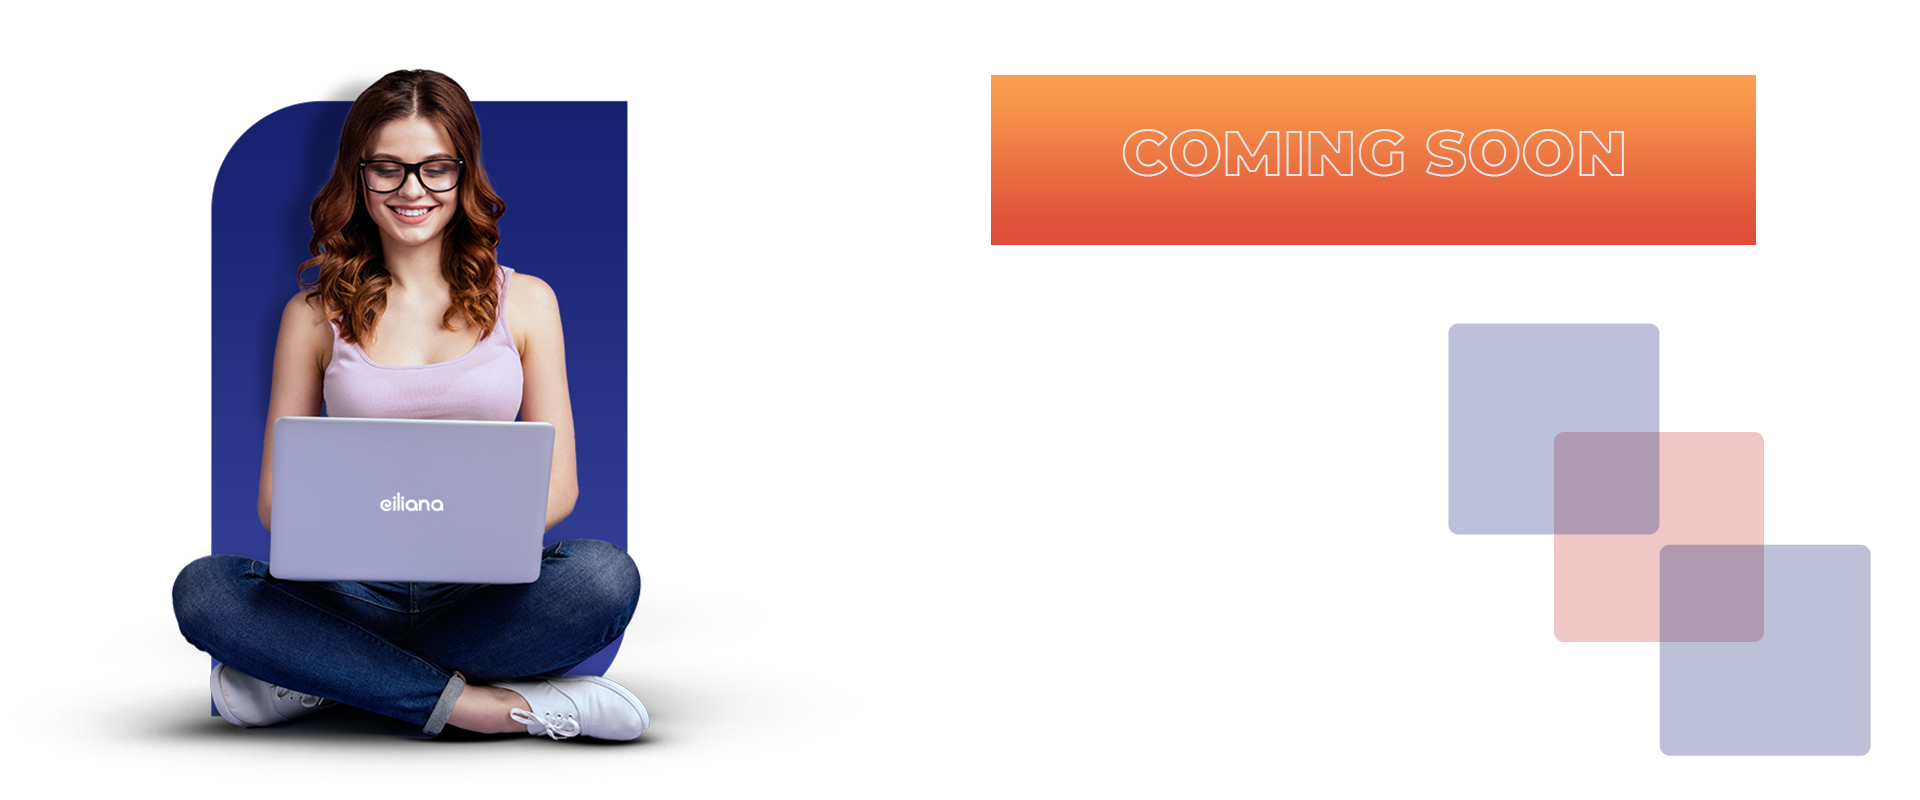
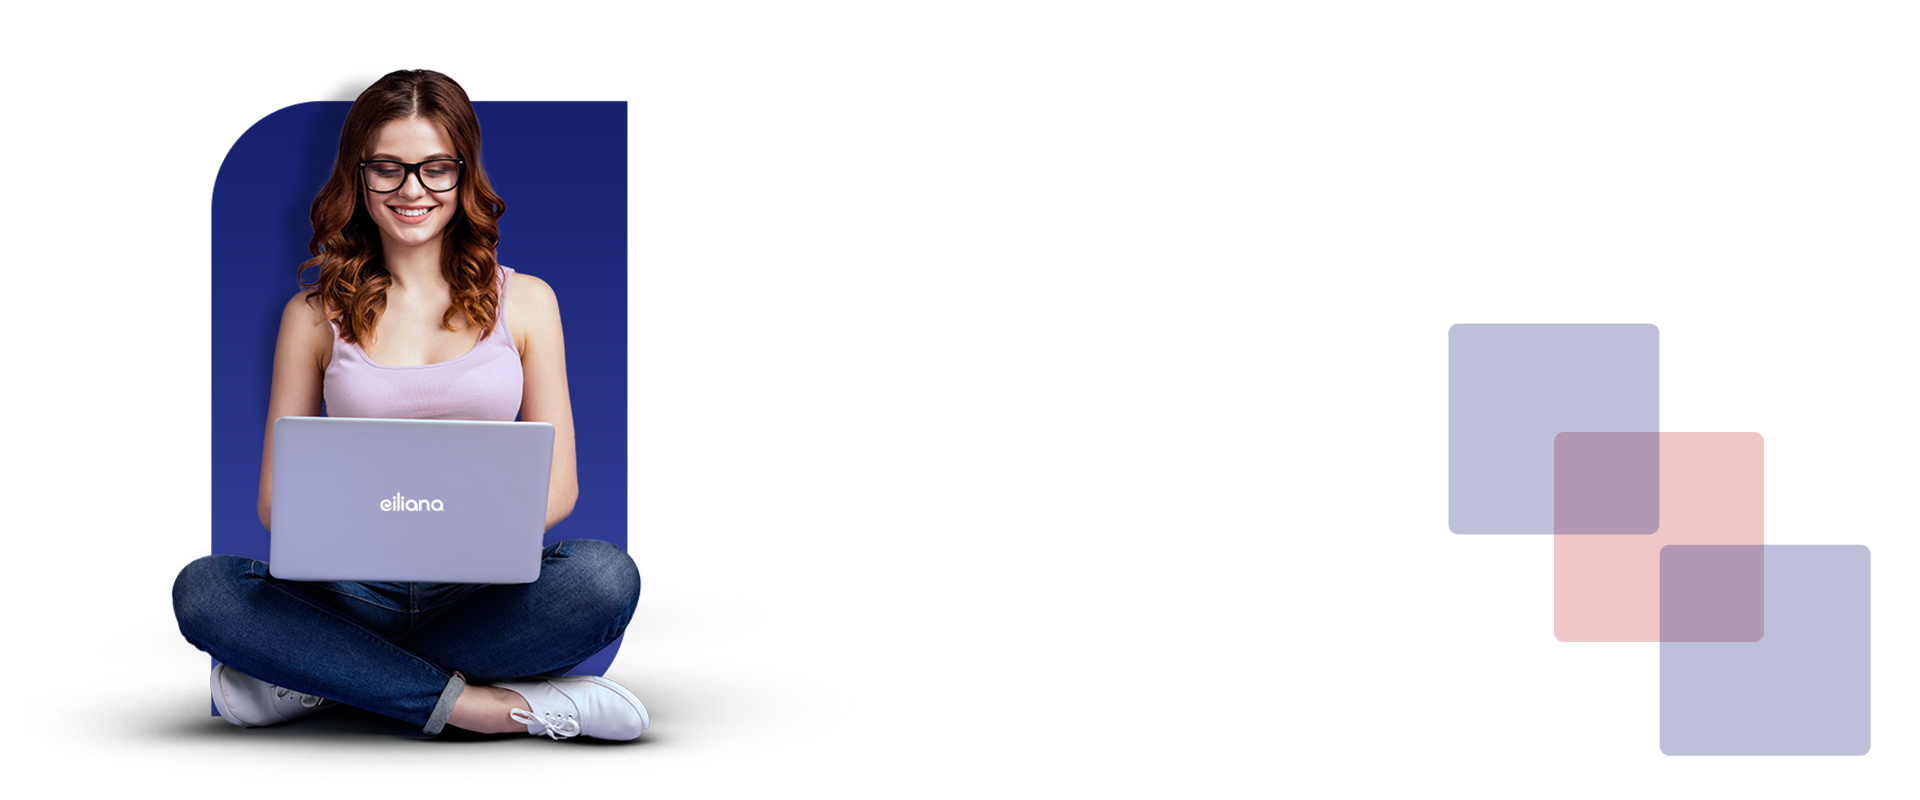
version-1.12.15

Changed region(s): [[0.5, 0.0938, 0.9375, 0.3125]]

diff --git a/public/assets/css/style.css b/public/assets/css/style.css
@@ -987,3 +987,16 @@ button.btn.btn-danger.float-right.mt-3.rounded-0 {
 .account-register .custom-control.custom-radio {
     top: 10px;
 }
+.advance-search .card-header {
+    text-align: left;
+    margin: 0.5rem 0.8rem;
+    padding: .5rem .5rem;
+    font-size: 19px;
+}
+.advance-search .card {
+    border: none;
+}
+.advance-search {
+    box-shadow: 0 0 2px 2px #e4ecf7;
+    border: none;
+}

diff --git a/resources/views/search/projects.blade.php b/resources/views/search/projects.blade.php
@@ -1,0 +1,124 @@
+@extends('search/layout')
+
+@section('search_content')
+<div class="advance-search singup-body login-body">
+    <form action="{{ url('/advance-search/updateProfile') }}" method="POST">
+        @csrf
+        <div class="card">
+            <div class="card-header">
+                <div class="basic-info">
+                    <label>Type of Project</label>
+                    <div class="form-check form-check-inline ml-3">
+                        <div class="custom-control custom-radio">
+                            <input type="radio" id="support" class="custom-control-input" name="top" value="1">
+                            <label class="custom-control-label" for="support">Support</label>
+                        </div>
+                    </div>
+                    <div class="form-check form-check-inline">
+                        <div class="custom-control custom-radio">
+                            <input type="radio" id="development" class="custom-control-input" name="top" value="2">
+                            <label class="custom-control-label" for="development">Development</label>
+                        </div>
+                    </div>
+                    <div class="form-check form-check-inline">
+                        <div class="custom-control custom-radio">
+                            <input type="radio" id="both" class="custom-control-input" name="top" value="3">
+                            <label class="custom-control-label" for="both">Both</label>
+                        </div>
+                    </div>
+                </div>
+            </div>
+            <div class="card-body p-4">
+                <div class="form-group">
+                    <label>Looking to develope</label>
+                    <input type="text" name="username" class="form-control" value="" />
+                </div>
+                <div class="form-group basic-info">
+                    <label>Model Of Engagement</label>
+                    <br>
+                    <div class="form-check form-check-inline">
+                        <input class="form-check-input" type="checkbox" id="inlineCheckbox1" name="model_engagement" value="1">
+                        <label class="form-check-label" for="inlineCheckbox1">Hourly</label>
+                    </div>
+                    <div class="form-check form-check-inline">
+                        <input class="form-check-input" type="checkbox" id="inlineCheckbox2" name="model_engagement" value="2">
+                        <label class="form-check-label" for="inlineCheckbox2">Retainership</label>
+                    </div>
+                    <div class="form-check form-check-inline">
+                        <input class="form-check-input" type="checkbox" id="inlineCheckbox3" name="model_engagement" value="3">
+                        <label class="form-check-label" for="inlineCheckbox3">Project-based</label>
+                    </div>
+                </div>
+                <div class="form-group">
+                    <label>Technology Preference</label>
+                    <select name="technologty_pre" class="form-control" required>
+                        <option value=""></option>
+                        <option value="1">1</option>
+                        <option value="2">2</option>
+                    </select>
+                </div>
+                <div class="form-row">
+                    <div class="form-group col-8">
+                        <label>Total Experience</label>
+                        <div class="form-row">
+                            <div class="col">
+                                <select class="form-control" name="experience_year">
+                                    @for ($i = 1; $i < 21; $i++)
+                                    <option value="{{ $i }}">{{ $i }} Years</option>
+                                    @endfor
+                                </select>
+                            </div>
+                            <div class="col">
+                                <select class="form-control" name="experience_month">
+                                    @for ($i = 1; $i < 13; $i++)
+                                    <option value="{{ $i }}">{{ $i }} Months</option>
+                                    @endfor
+                                </select>
+                            </div>
+                        </div>
+                    </div>
+                </div>
+                <div class="form-group">
+                    <label>Industry that Product was designed for</label>
+                    <select name="industry" class="form-control">
+                        <option value=""></option>
+                        <option value="1">1</option>
+                        <option value="2">2</option>
+                        <option value="3">3</option>
+                    </select>
+                </div>
+                <div class="form-group basic-info mb-3">
+                    <label>Sort By</label>
+                    <div class="form-check form-check-inline ml-3">
+                        <div class="custom-control custom-radio">
+                            <input type="radio" id="Relevance" name="sortby" class="custom-control-input" value="0">
+                            <label class="custom-control-label" for="Relevance">Relevance</label>
+                        </div>
+                    </div>
+                    <div class="form-check form-check-inline">
+                        <div class="custom-control custom-radio">
+                            <input type="radio" id="Resume" name="sortby" class="custom-control-input" value="1">
+                            <label class="custom-control-label" for="Resume">Resume Fresher</label>
+                        </div>
+                    </div>
+                    <div class="form-check form-check-inline">
+                        <div class="custom-control custom-radio">
+                            <input type="radio" id="Last" name="sortby" class="custom-control-input" value="1">
+                            <label class="custom-control-label" for="Last">Last Active Date</label>
+                        </div>
+                    </div>
+                </div>
+                <div class="form-group text-right mt-5">
+                    <div class="btn-group" role="group">
+                        <button class="btn btn-primary">
+                            <span class="spinner-border spinner-border-sm mr-1 d-none"></span>
+                            Search and find the relevant projects
+                        </button>
+                        <!-- <button class="btn btn-outline-primary" type="reset">Discard</button> -->
+                    </div>
+                </div>
+            </div>
+        </div>
+    </form>
+</div>
+@stop

diff --git a/resources/views/search/layout.blade.php b/resources/views/search/layout.blade.php
@@ -1,0 +1,119 @@
+@extends('layouts/default')
+
+{{-- Page title --}}
+@section('title')
+Advance Search
+@parent
+@stop
+
+{{-- page level styles --}}
+@section('header_styles')
+<!--page level css starts-->
+<link href="{{ asset('vendors/jasny-bootstrap/css/jasny-bootstrap.css') }}" rel="stylesheet" />
+<link href="{{ asset('vendors/iCheck/css/all.css') }}" rel="stylesheet" type="text/css" />
+<link href="{{ asset('vendors/sweetalert/css/sweetalert2.css') }}" rel="stylesheet" type="text/css" />
+<link rel="stylesheet" type="text/css" href="{{ asset('vendors/select2/css/select2.min.css') }}">
+<link rel="stylesheet" type="text/css" href="{{ asset('vendors/select2/css/select2-bootstrap.css') }}">
+<link rel="stylesheet" type="text/css" href="{{ asset('vendors/datetimepicker/css/bootstrap-datetimepicker.min.css') }}">
+<!--end of page level css-->
+@stop
+
+{{-- content --}}
+@section('content')
+<div class="profile-setting">
+	<div class="bg-red">
+	  <div class="px-5 py-2">
+	    <div class="align-items-center">
+	        <span class="border-title"><i class="fa fa-bars"></i></span>
+	        <span class="h5 text-white ml-2">Advance Search</span>
+	         <!-- <span class="h4 text-white float-right font-weight-light">75% <div class="loader"></div></span> -->
+	    </div>
+	  </div>
+	</div>
+	<div class="container space-1 space-top-lg-0 mt-lg-n10">
+	    <div class="row">
+	        <div class="col-lg-8">
+	        	<div id="notific">
+		            @include('notifications')
+		        </div>
+	            @yield('search_content')
+	        </div>
+	        <div class="col-lg-4">
+	            <div id="sidebarNav" class="navbar-collapse navbar-vertical " style="">
+				    <div class="position-relative max-w-50rem mx-auto mobile-profile">
+				        <!-- Device Mockup -->
+				        <div class="device device-iphone-x w-100 mx-auto">
+				            <img class="device-iphone-x-frame" src="/assets/img/profile/mobile-bg.png" alt="Image Description">
+				            <div class="device-iphone-x-screen">
+				                <div class="top-mobile bg-blue bg-img-hero" style="background-image: url(/assets/img/profile/mobile-profile.png);">
+				                    <div class="row">
+				                        <div class="col-4"></div>
+				                        <div class="col-8">
+				                            <div class="img-upload">
+				                                <img class="image-preview avatar-img" src="/assets/img/profile/m-photo-icon.png" class="avatar" alt="Avatar">
+				                                <span>Upload Photo</span>
+				                            </div>
+				                            <button class="btn">{{ Sentinel::getUser()->full_name }}</button>
+				                            <p class="card-text font-size-1">
+				                                @isset(Sentinel::getUser()->city)
+				                                {{ Sentinel::getUser()->city }}, 
+				                                @endisset
+				                                {{ Session::get('users')['country_name'] }}
+				                                <br>
+				                                {{ \Carbon\Carbon::parse(Sentinel::getUser()->created_at)->format('M d, Y')}}
+				                            </p>
+				                        
+				                        </div>
+				                    </div>
+				                </div> 
+				                <div class="bottom-menu">
+				                    <div class="list-group">
+				                        <a class="list-group-item list-group-item-action bg-white-b {!! (Request::is('profile') ? 'active' : '' ) !!}" href="/profile">
+				                            <!-- <i class="fas fa-info-circle"></i> -->
+				                            <img class="img-fluid" src="/assets/img/profile/icon-1.png" alt="Avatar">
+				                            <span>Primary Information</span>
+				                        </a>
+				                        <a class="list-group-item list-group-item-action bg-blue {!! (Request::is('profile/education') ? 'active' : '' ) !!}" href="/profile/education">
+				                            <img class="img-fluid" src="/assets/img/profile/icon-2.png" alt="Avatar">
+				                            <span> Education</span>
+				                        </a>
+				                        <a class="list-group-item list-group-item-action bg-white-b {!! (Request::is('profile/certification') ? 'active' : '' ) !!}" href="/profile/certification">
+				                            <img class="img-fluid" src="/assets/img/profile/icon-3.png" alt="Avatar">
+				                            <span> Certification</span>
+				                        </a>
+				                        <a class="list-group-item list-group-item-action bg-blue {!! (Request::is('profile/professional-experience') ? 'active' : '' ) !!}" href="/profile/professional-experience">
+				                            <img class="img-fluid" src="/assets/img/profile/icon-4.png" alt="Avatar">
+				                            <span> Professional Experience</span>
+				                        </a>
+				                        <a class="list-group-item list-group-item-action bg-white-b" href="/profile">
+				                            <img class="img-fluid" src="/assets/img/profile/icon-5.png" alt="Avatar">
+				                            <span> Company Settings</span>
+				                        </a>
+				                    </div>
+				                </div>
+				            </div>
+				        </div>
+				        <!-- End Device Mockup -->
+				    </div>
+				</div>
+	        </div>
+	    </div>
+	    <!-- End Row -->
+	</div>
+</div>
+@stop
+{{-- footer scripts --}}
+@section('footer_scripts')
+<!--global js starts-->
+<script type="text/javascript" src="{{ asset('vendors/moment/js/moment.min.js') }}"></script>
+<script src="{{ asset('vendors/jasny-bootstrap/js/jasny-bootstrap.js') }}" type="text/javascript"></script>
+<script src="{{ asset('vendors/iCheck/js/icheck.js') }}"></script>
+<script type="text/javascript" src="{{ asset('/assets/js/profile_custom.js') }}"></script>
+<script src="{{ asset('vendors/sweetalert/js/sweetalert2.js') }}" type="text/javascript"></script>
+<script type="text/javascript" src="{{ asset('vendors/select2/js/select2.js') }}"></script>
+<script type="text/javascript" src="{{ asset('vendors/datetimepicker/js/bootstrap-datetimepicker.min.js') }}"></script>
+<script>
+	
+</script>
+<!--global js end-->
+@stop

diff --git a/resources/views/search/contract-staffing.blade.php b/resources/views/search/contract-staffing.blade.php
@@ -1,0 +1,41 @@
+@extends('search/layout')
+
+@section('search_content')
+<div class="advance-search singup-body login-body">
+    <form action="{{ url('/advance-search/updateProfile') }}" method="POST">
+        @csrf
+        <div class="card">
+            <div class="card-header">
+                <div class="basic-info">
+                    <label>Type of Project</label>
+                    <div class="form-check form-check-inline ml-3">
+                        <div class="custom-control custom-radio">
+                            <input type="radio" id="support" class="custom-control-input" name="top" value="1">
+                            <label class="custom-control-label" for="support">Support</label>
+                        </div>
+                    </div>
+                    <div class="form-check form-check-inline">
+                        <div class="custom-control custom-radio">
+                            <input type="radio" id="development" class="custom-control-input" name="top" value="2">
+                            <label class="custom-control-label" for="development">Development</label>
+                        </div>
+                    </div>
+                    <div class="form-check form-check-inline">
+                        <div class="custom-control custom-radio">
+                            <input type="radio" id="both" class="custom-control-input" name="top" value="3">
+                            <label class="custom-control-label" for="both">Both</label>
+                        </div>
+                    </div>
+                </div>
+            </div>
+            <div class="card-body p-4">
+                <div class="form-group">
+                    <label>Any Keyword(Key Skills)</label>
+                    <input type="text" name="username" class="form-control" value="" />
+                </div>
+
+            </div>
+        </div>
+    </form>
+</div>
+@stop

diff --git a/routes/web.php b/routes/web.php
@@ -280,18 +280,18 @@ Route::group(
 // FrontEndController
 
 // frontend views
-Route::get(
-    '/',
-    ['as' => 'home', function () {
-        return view('comingsoon');
-    }]
-);
 // Route::get(
 //     '/',
 //     ['as' => 'home', function () {
-//         return view('index');
+//         return view('comingsoon');
 //     }]
 // );
+Route::get(
+    '/',
+    ['as' => 'home', function () {
+        return view('index');
+    }]
+);
 
 // account
 Route::group(
@@ -379,6 +379,13 @@ Route::group(
 
         Route::get('tax', 'ProfileController@tax')->name('tax');
         Route::get('financial', 'ProfileController@financial')->name('financial');
+    }
+);
+Route::group(
+    ['prefix' => 'advance-search', 'middleware' => 'user'],
+    function () {
+        Route::get('projects', 'AdvanceSearchController@projects')->name('projects');
+        Route::get('contract-staffing', 'AdvanceSearchController@contractStaffing')->name('contract-staffing');
     }
 );
 

diff --git a/app/Http/Controllers/AdvanceSearchController.php b/app/Http/Controllers/AdvanceSearchController.php
@@ -1,0 +1,37 @@
+<?php
+
+namespace App\Http\Controllers;
+
+use App\Http\Controllers\JoshController;
+use Cartalyst\Sentinel\Checkpoints\ThrottlingException;
+use Illuminate\Http\Request;
+use Illuminate\Support\Facades\Log;
+use Illuminate\Support\Facades\Redirect;
+use Mail;
+use Reminder;
+use Sentinel;
+use URL;
+use Validator;
+use View;
+use DB;
+use App\Models\User;
+use App\Models\Education;
+use App\Models\Project;
+use stdClass;
+use Carbon\Carbon;
+
+
+class AdvanceSearchController extends Controller
+{
+    public function projects()
+    {
+        // Show the page
+        return view('search/projects');
+    }
+
+    public function contractStaffing()
+    {
+        // Show the page
+        return view('search/contract-staffing');
+    }
+}

diff --git a/resources/views/comingsoon.blade.php b/resources/views/comingsoon.blade.php
@@ -36,6 +36,7 @@ Coming Soon
               </div>
               <div class="col-md-7">
                 <div class="banner1_content">
+                  <!-- <img src="/assets/img/coomingsoon.png" class="img-fluid" alt="coomingsoon"> -->
                   <h1>Transforming lives <br>Through next <br>Generation <span class="text-orange">Resources</span> <br>And <span class="text-orange">Projects</span></h1>
                   <!-- <p>Nullam quis ante. Etiam sit amet orci eget eros faucibus <br>tincidunt. Duis leo. Fringilla mauris sit amet. Donec sodales</p> -->
                   <div class="group_button">
